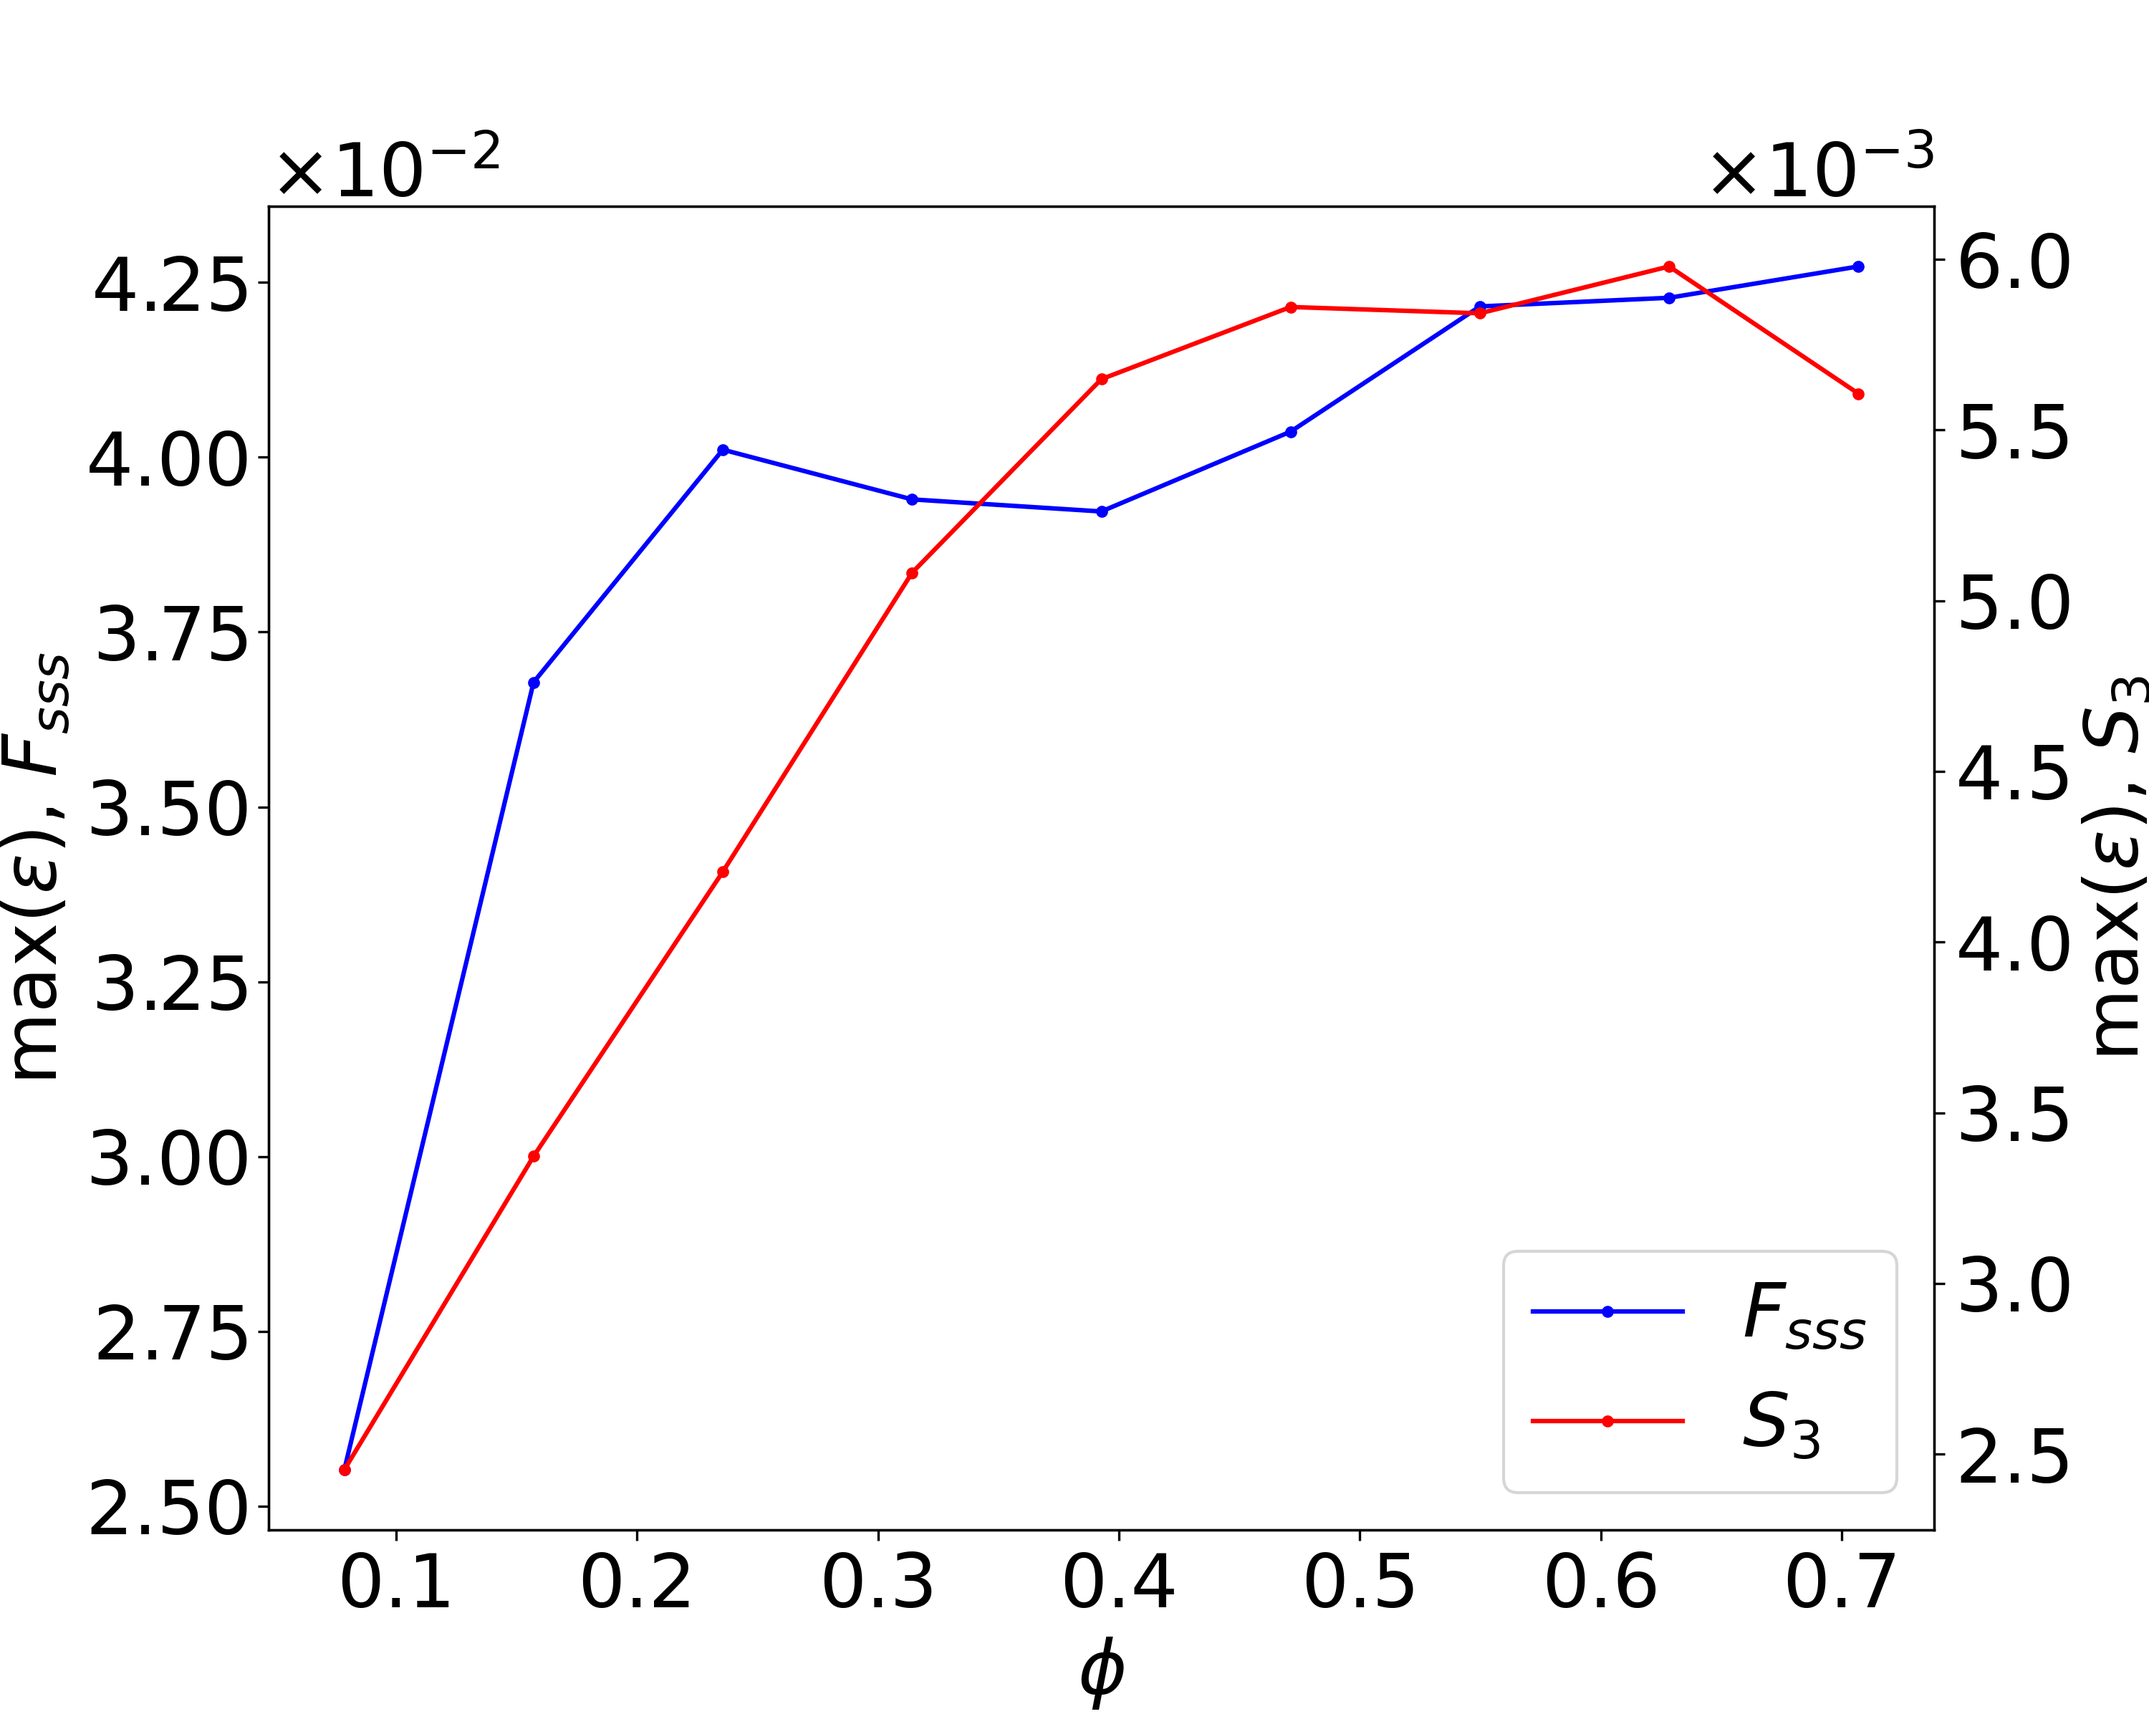
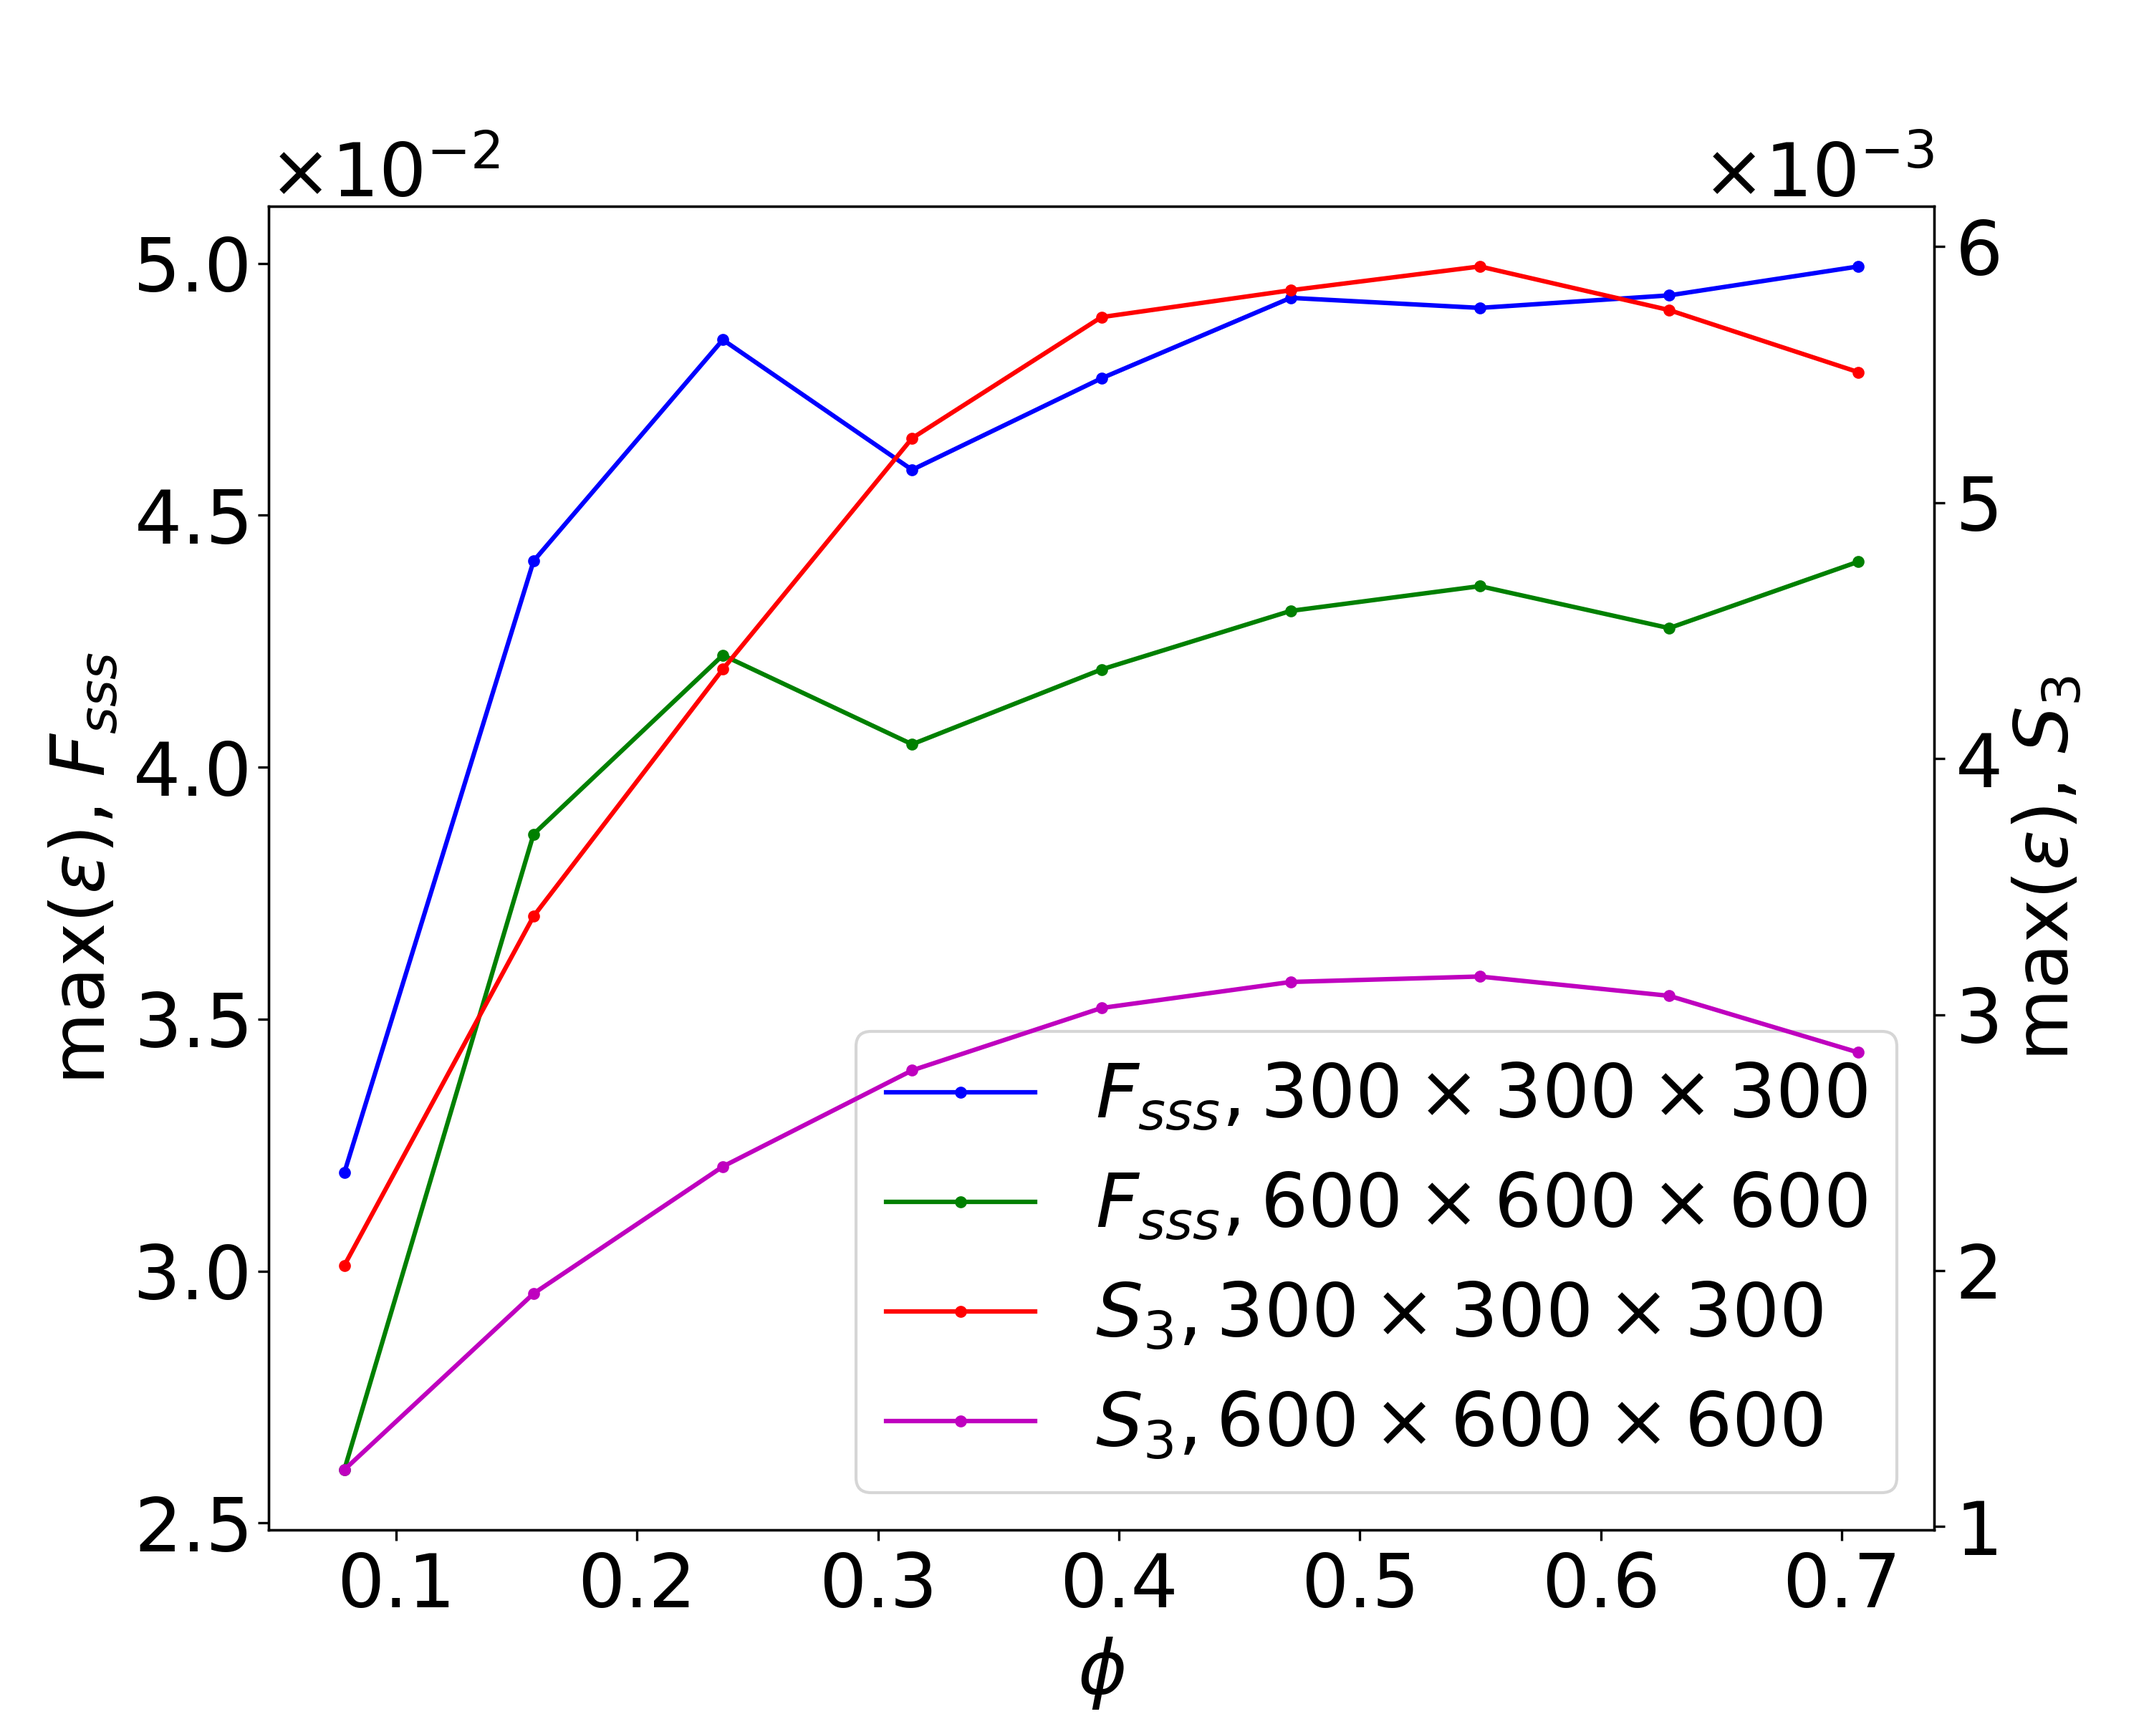
Two cases for teh error of rotation

diff --git a/paper.tex b/paper.tex
@@ -1053,13 +1053,13 @@ cluster correlation functions, because they are calculated
 ``in the whole volume'' of the sample. The biggest loss should be for $F_{sss}$
 function because it takes into account only a small volume of the sample which
 lies closely to the interface between phases and this volume is the only volume
-affected by the rotation.
+affected by rotation.
 
-To estimate the error introduced by rotation, consider a
-$300 \times 300 \times 300$ sample of value noise \cref{fig:roterror-noise}
-which is defined as $f(x, y, z) > U$ where $f$ is a value noise function and $U$
-is a threshold. We produce images of the noise rotated around $Z$ axis by $\phi$
-radians by discretizing an inequation $f(p(x'), p(y'), p(z')) > U$ where
+To estimate the error introduced by rotation, consider a two-phase medium
+\cref{fig:roterror-noise} whose void phase is defined by an inequality
+$f(x, y, z) > U$ where $f$ is a value noise function and $U$ is a threshold. We
+produce images of the noise rotated around $Z$ axis by $\phi$ radians by
+discretizing an inequation $f(p(x'), p(y'), p(z')) > U$ where
 \begin{equation*}
   \begin{aligned}
     x' &= x \cos \phi + y \sin \phi \\
@@ -1079,32 +1079,39 @@ and
     x ' &= x \mod 2
   \end{aligned}
 \end{equation*}
-Therefore we assume the noise to be periodic with the period equal to
-$2$ and the interface between phases is continuous. Discretizing for different
-values of $\phi \in [0, \pi/4]$ we obtain the first dataset which contains the
-best possible discretization of the rotated noise.
+Therefore we assume the noise to be periodic with the period equal to $2$ and
+the interface between phases is continuous. Discretizing this noise for
+different values of $\phi \in [0, \pi/4]$ with two different resolutions we
+obtain the first dataset which contains the best possible discretization of the
+rotated noise at those resolutions. For this study we have produced images with
+dimensionality $300 \times 300 \times 300$ and $600 \times 600 \times 600$
+voxels (i.e. the second resolution is twice as much as the first).
 
 The second dataset is constructed by discretizing the noise with $\phi = 0$ and
-then rotating the discretized image using nearest-neighbor interpolation.
+then rotating the discretized image using nearest-neighbor interpolation. This
+procedure is done for the same two dimensionalities as in the first dataset.
 
 We compute $S_3$ and $F_{sss}$ functions in periodic mode for the both datasets
-and calculate pointwisely a relative error introduced by the rotation as
+and calculate pointwisely a relative error introduced by rotation as
 \begin{equation}
   \varepsilon = \frac{|F_1 - F_2|}{F_1}
   \label{eq:relerr}
 \end{equation}
 where $F_1$ is a correlation function for a sample from the first dataset and
-$F_2$ is a correlation function for a sample from the second dataset. The we
-calculate the maximal relative error for each $\phi$ as the maximum of all
-pointwise errors for a given rotation angle.
+$F_2$ is a correlation function for a sample from the second dataset for the
+same combination of a rotation angle $\phi$ and dimensionality $D$. Then we
+calculate the maximal relative error as the maximum of all pointwise errors for
+a given pair $(\phi, D)$.
 
 Plots of maximal relative errors for functions $S_3$ and $F_{sss}$ are on
-\cref{fig:roterror-error}. For the surface-surface-surface function we omit
-values $F_{sss}(s_1, s_2)$ if either of its arguments is less than 10 voxels
-because this function is undefined for either $s_1$ or $s_2$ being equal to zero
-and our edge detection filter gives at least 7 voxel transition zone where the
-correlation function is affected by this indeterminacy. The maximal error for
-all $\phi$'s are 0.6\% for $S_3$ and 4.4\% for $F_{sss}$.
+\cref{fig:roterror-error}. When calculating the error of the
+surface-surface-surface function we omit values $F_{sss}(s_1, s_2)$ if either of
+its arguments is less than 10 voxels because this function is undefined for
+either $s_1$ or $s_2$ being equal to zero and our edge detection filter gives at
+least 7 voxel transition zone where the correlation function is affected by this
+indeterminacy. The maximal error for all $\phi$'s are 0.6\% for $S_3$ and 5.0\%
+for $F_{sss}$ for dimensionality $300 \times 300 \times 300$ and 0.3\% for $S_3$
+and 4.5\% for $F_{sss}$ for dimensionality $600 \times 600 \times 600$.
 
 \bibliography{paper}
 \end{document}

diff --git a/data/error/plot.py b/data/error/plot.py
@@ -3,9 +3,9 @@
 import numpy as np
 import matplotlib.pyplot as plt
 
-def err(i, n, name):
-    datal = np.load("lisp/data-%i-300-%s.npy" % (i, name))
-    dataj = np.load("julia/data-%i-300-%s.npy" % (i, name))
+def err(i, n, side, name):
+    datal = np.load("lisp/data-%i-%i-%s.npy" % (i, side, name))
+    dataj = np.load("julia/data-%i-%i-%s.npy" % (i, side, name))
     err = np.abs(datal - dataj) / datal
     err = err[n:, n:]
     return np.max(err)
@@ -16,19 +16,24 @@ def toangle(i):
 xs = np.arange(1,10)
 xs = toangle(xs)
 
-errs3 = np.array(list(map(lambda i: err(i, 0, "s3"), range(1, 10))))
-errsss = np.array(list(map(lambda i: err(i, 10, "surf3"), range(1, 10))))
+errs3_300 = np.array(list(map(lambda i: err(i, 0, 300, "s3"), range(1, 10))))
+errsss_300 = np.array(list(map(lambda i: err(i, 10, 300, "surf3"), range(1, 10))))
+errs3_600 = np.array(list(map(lambda i: err(i, 0, 600, "s3"), range(1, 10))))
+errsss_600 = np.array(list(map(lambda i: err(i, 10, 600, "surf3"), range(1, 10))))
 
-plt.figure(figsize = (10, 8), dpi = 300)
-plt.rc('font', size = 25)
+#plt.figure(figsize = (10, 8), dpi = 300)
+#plt.rc('font', size = 25)
 ax1 = plt.gca()
 ax2 = ax1.twinx()
-p1, = ax1.plot(xs, errsss, 'b.-', label = r'$F_{sss}$')
-p2, = ax2.plot(xs, errs3, 'r.-', label = r'$S_3$')
+p1, = ax1.plot(xs, errsss_300, 'b.-', label = r'$F_{sss}, 300 \times 300 \times 300$')
+p2, = ax1.plot(xs, errsss_600, 'g.-', label = r'$F_{sss}, 600 \times 600 \times 600$')
+p3, = ax2.plot(xs, errs3_300, 'r.-', label = r'$S_3, 300 \times 300 \times 300$')
+p4, = ax2.plot(xs, errs3_600, 'm.-', label = r'$S_3, 600 \times 600 \times 600$')
 ax1.set_xlabel(r'$\phi$')
 ax1.set_ylabel(r'$\max (\varepsilon)$, $F_{sss}$')
 ax2.set_ylabel(r'$\max (\varepsilon)$, $S_3$')
 ax1.ticklabel_format(axis = "y", scilimits = (0, 0), useMathText = True)
 ax2.ticklabel_format(axis = "y", scilimits = (0, 0), useMathText = True)
-ax1.legend(handles = [p1, p2])
-plt.savefig('../../images/roterror-s3.png')
+ax1.legend(handles = [p1, p2, p3, p4])
+#plt.savefig('../../images/roterror-s3.png')
+plt.show()
